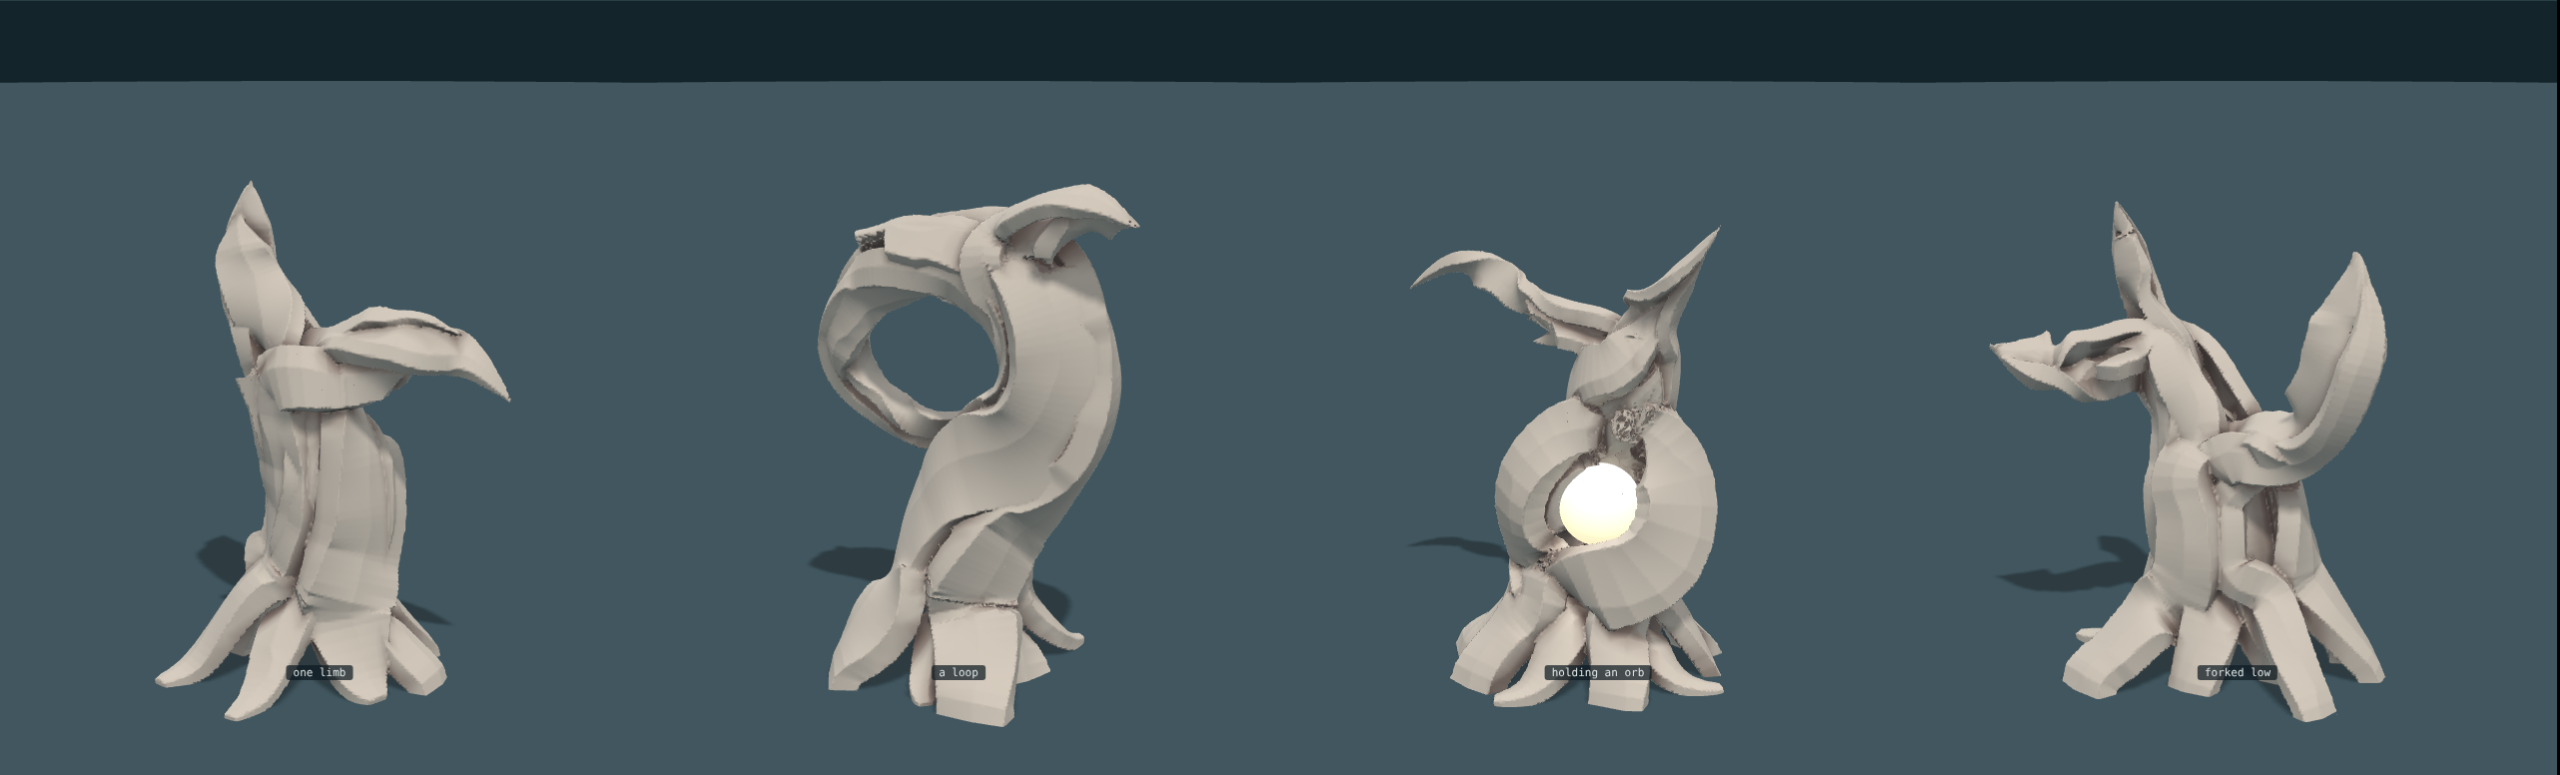
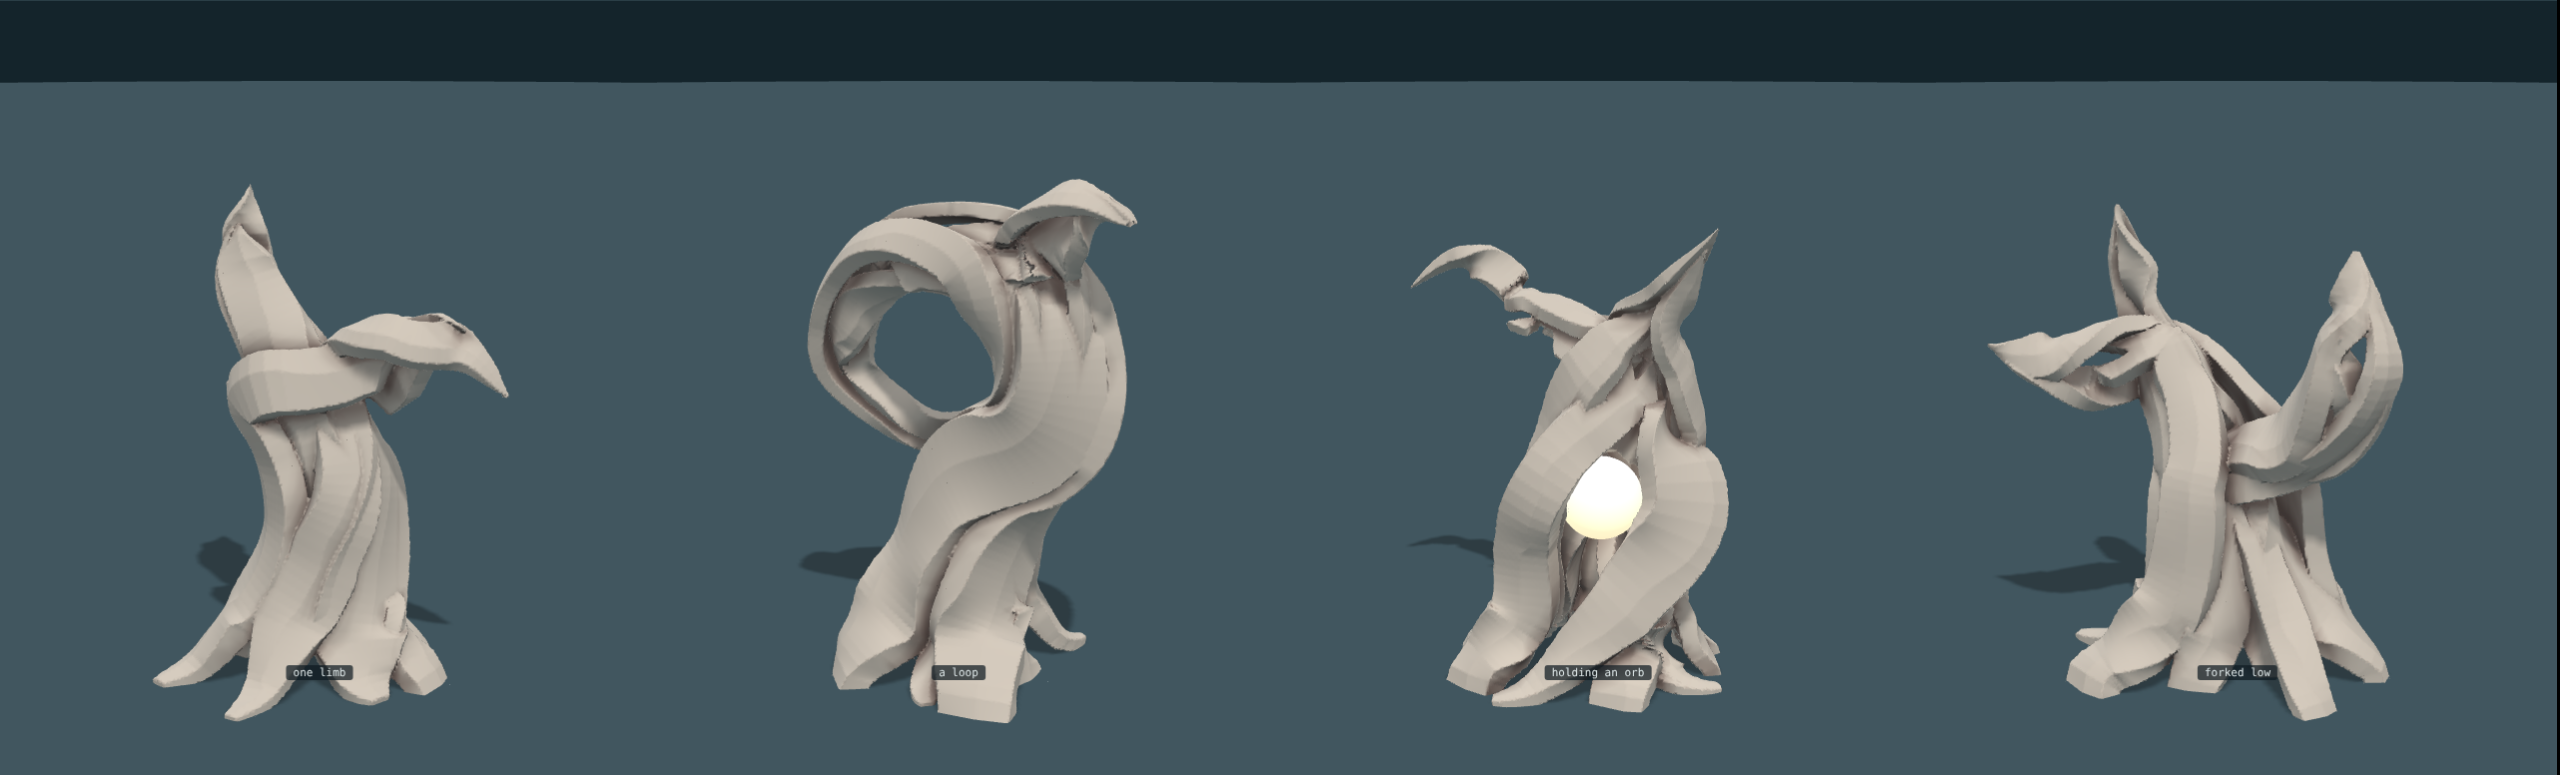
Trees: tension. Strands anchored at their root ends only; the bundle, not each strand, kept to its line
Claude-Session: https://claude.ai/code/session_0192rgp75jGkttZXf7hEakip

diff --git a/trees.js b/trees.js
@@ -2,8 +2,10 @@
 // begins as a root, goes up the trunk with the rest, leaves with some of them along a limb
 // or carries on to the top, and ends in a point. Where strands share a way they are a bundle; a fork is the
 // bundle parting. The trunk's and limbs' lines are given; where each strand lies is not. That is settled:
-// every strand is pulled taut, resists bending, keeps to its bundle, and gives way to every other strand,
-// to the ground, and to an orb if the tree holds one (see strands.js for that by itself).
+// every strand is anchored at the far end of its root and nowhere else, is pulled taut, resists bending, and
+// gives way to every other strand, to the ground, and to an orb if the tree holds one. Only the bundle as
+// a whole is kept on its line. So whatever pushes a strand aside is felt all the way along it: there is
+// tension, from the root's anchor to the strand's end.
 // Nothing here has a surface. grow() returns where the strands go, how thick they are and which way each
 // faces outward. No dependencies. Works as a plain <script> (globalThis.Trees) and in Node.
 (function (root) {
@@ -25,7 +27,7 @@
   function frames(P) { let N = null; return P.map((p, i) => { const T = unit([0, 1, 2].map((k) => P[Math.min(P.length - 1, i + 1)][k] - P[Math.max(0, i - 1)][k])); N = unit((N || [1, 0, 0.2]).map((v, k, A) => v - T[k] * dot(A, T))); return [T, N, cross(T, N)]; }); }
 
   function grow(recipe) {
-    const P = Object.assign({ strands: 8, fill: 0.75, uneven: 0.5, twist: 0.5, taut: 0.3, stiff: 0.05, hug: 0.02, roots: 0.6, giving: 0.75, passes: 700, ds: 0.025, seed: 1, trunk: [[0, 0.14, 0, 0.27], [0, 1.6, 0, 0.1]], limbs: [], orb: null }, recipe);
+    const P = Object.assign({ strands: 8, fill: 0.75, uneven: 0.5, twist: 0.5, taut: 0.3, stiff: 0.05, hug: 0.15, bind: 0.001, roots: 0.6, giving: 0.75, passes: 1500, ds: 0.035, seed: 1, trunk: [[0, 0.14, 0, 0.27], [0, 1.6, 0, 0.1]], limbs: [], orb: null }, recipe);
     const r = rng(P.seed), n = P.strands, ds = P.ds, trunk = line(P.trunk, ds), nT = trunk.length, R0 = trunk[0][3], rho0 = R0 * Math.sqrt(P.fill / n), turn = (i) => P.twist * TAU * i / nT;
     // every strand has a place in the bundle's section, and a girth of its own
     const S = Array.from({ length: n }, (_, j) => { const d = Math.sqrt((j + 0.5) / n), a = j * GA + 0.5 * (r() - 0.5); return { a: d * Math.cos(a), b: d * Math.sin(a), fat: 1 + P.uneven * (r() - 0.5), limb: -1, give: r() < P.giving ? 1 : 0.25 * r() }; });
@@ -51,7 +53,7 @@
       for (let i = 0; i <= end; i++) {
         const [u, v, m] = place(s, i), onLimb = fi >= 0 && i > fi, Rg = (onLimb ? path[i][3] : path[i][3] * Math.sqrt(m / n)) * 0.8, c = Math.cos(turn(i)), sn = Math.sin(turn(i)), a = u * c - v * sn, b = u * sn + v * c, [, Nn, Bn] = fr[i];
         const tip = s.snapped ? 1 : Math.max(0.12, Math.pow(Math.min(1, (end - i) * ds / fine), 0.7));   // or it fines down to a point
-        X.push([0, 1, 2].map((k) => path[i][k] + (Nn[k] * a + Bn[k] * b) * Rg)); goal.push(path[i].slice(0, 3)); hold.push(P.hug);
+        X.push([0, 1, 2].map((k) => path[i][k] + (Nn[k] * a + Bn[k] * b) * Rg)); goal.push(path[i].slice(0, 3)); hold.push(0);
         rho.push(rho0 * s.fat * tip * (onLimb ? limbs[s.limb].scale * (0.7 + 0.3 * path[i][3] / path[fi + 1][3]) : path[i][3] / R0));
       }
       // its root: the strand itself coming down from the foot of the trunk the way it faces there, heavy, and
@@ -60,7 +62,8 @@
       for (let m = 1; m <= Kr; m++) { const g = m / Kr, t = bend * g * g, dir = [away[0] * Math.cos(t) - away[2] * Math.sin(t), 0, away[0] * Math.sin(t) + away[2] * Math.cos(t)], rad = rho[0] * (dives ? 0.75 + 0.25 * (1 - g) : 0.25 + 0.75 * Math.pow(1 - g, 0.8));
         q = [q[0] + dir[0] * ds, p0[1] + (rad * 0.6 - p0[1]) * sstep(0, 0.8, g) - (dives ? 0.35 * sstep(0.6, 1, g) : 0), q[2] + dir[2] * ds]; rx.push(q); rr.push(rad); rg.push(q); }
       s.root = Kr; s.K = Kr + X.length; const all = rx.reverse().concat(X), goals = rg.reverse().concat(goal);
-      s.X = Float64Array.from(all.flat()); s.goal = Float64Array.from(goals.flat()); s.rho = Float64Array.from(rr.reverse().concat(rho)); s.hold = Float64Array.from(new Array(Kr).fill(0.12).concat(hold)); s.bend = P.stiff * Math.min(1.6, s.fat * s.fat);
+      s.X = Float64Array.from(all.flat()); s.goal = Float64Array.from(goals.flat()); s.rho = Float64Array.from(rr.reverse().concat(rho)); s.hold = Float64Array.from(Array.from({ length: Kr }, (_, k) => (k < Kr * 0.45 ? 0.2 : 0)).concat(hold));   // anchored at the far end of its root, and nowhere else
+      s.limbAt = fi; s.bend = P.stiff * Math.min(1.6, s.fat * s.fat);
     }
     // an orb held in the trunk: a ball, with room round it for the strands that are willing to give it
     let orb = null;
@@ -73,12 +76,20 @@
         for (let a = -1; a <= 1; a++) for (let b = -1; b <= 1; b++) for (let e = -1; e <= 1; e++) { const q = g.get((cx + a + 512) * 1048576 + (cy + b + 512) * 1024 + cz + e + 512); if (!q) continue;
           for (let t = 0; t < q.length; t += 2) { const j = q[t]; if (j <= i) continue; const l = q[t + 1], o = S[j].X, dx = x - o[l * 3], dy = y - o[l * 3 + 1], dz = z - o[l * 3 + 2], d = H(dx, dy, dz), want = s.rho[k] + S[j].rho[l]; if (d < want) fn(i, k, j, l, dx, dy, dz, d || 1e-9, want); } } } });
     };
+    // which strands pass each step of the trunk and of each limb together
+    const stations = new Map();
+    S.forEach((s) => { for (let k = s.root; k < s.K; k++) { const i = k - s.root, key = (s.limbAt >= 0 && i > s.limbAt ? 'limb' + s.limb : 'trunk') + ':' + i; let st = stations.get(key); if (!st) { st = { goal: [s.goal[k * 3], s.goal[k * 3 + 1], s.goal[k * 3 + 2]], who: [] }; stations.set(key, st); } st.who.push(s, k); } });
     const M = S.map((s) => new Float64Array(s.K * 3));
     for (let pass = 0; pass < P.passes; pass++) {
       S.forEach((s, i) => { const X = s.X, m = M[i], K = s.K; m.fill(0);   // taut, stiff, and kept to its bundle's line
         for (let k = 0; k < K; k++) for (let q = 0; q < 3; q++) { const p = X[k * 3 + q]; let v = s.hold[k] * (s.goal[k * 3 + q] - p);
           if (k > 1 && k < K - 2) { const a = X[(k - 2) * 3 + q], b = X[(k - 1) * 3 + q], d = X[(k + 1) * 3 + q], e = X[(k + 2) * 3 + q]; v += P.taut * ((b + d) / 2 - p) - s.bend * (a - 4 * b + 6 * p - 4 * d + e); } m[k * 3 + q] = v; }
         for (let q = 0; q < K * 3; q++) X[q] += m[q]; });
+      // the bundle as a whole is kept on its line: all the strands at a step are moved together, so the line holds
+      // the tree's gesture without pulling any one strand back to where it began
+      for (const st of stations.values()) { let cx = 0, cy = 0, cz = 0, w = 0; for (let t = 0; t < st.who.length; t += 2) { const o = st.who[t], k = st.who[t + 1], m = o.rho[k] ** 2; cx += o.X[k * 3] * m; cy += o.X[k * 3 + 1] * m; cz += o.X[k * 3 + 2] * m; w += m; }
+        const dx = P.hug * (st.goal[0] - cx / w), dy = P.hug * (st.goal[1] - cy / w), dz = P.hug * (st.goal[2] - cz / w); for (let t = 0; t < st.who.length; t += 2) { const o = st.who[t], k = st.who[t + 1], b = k >= o.K - 5 ? 0.04 : P.bind;   // each is bound to the bundle's middle, very lightly; its free end more, or it would wander off
+          o.X[k * 3] += dx + b * (cx / w - o.X[k * 3]); o.X[k * 3 + 1] += dy + b * (cy / w - o.X[k * 3 + 1]); o.X[k * 3 + 2] += dz + b * (cz / w - o.X[k * 3 + 2]); } }
       M.forEach((m) => m.fill(0));   // they give way to each other, the thinner one more
       each((i, k, j, l, dx, dy, dz, d, want) => { const f = 0.5 * (want - d) / d, wi = S[j].rho[l] / want, wj = S[i].rho[k] / want; M[i][k * 3] += dx * f * wi; M[i][k * 3 + 1] += dy * f * wi; M[i][k * 3 + 2] += dz * f * wi; M[j][l * 3] -= dx * f * wj; M[j][l * 3 + 1] -= dy * f * wj; M[j][l * 3 + 2] -= dz * f * wj; });
       S.forEach((s, i) => { for (let q = 0; q < s.K * 3; q++) s.X[q] += M[i][q]; });

diff --git a/sketch/page7.js b/sketch/page7.js
@@ -73,10 +73,10 @@
   }
   // the same four trees. bare: bands only, so the body can be judged by itself.
   const bare = true, S = [
-    ['one limb', tree({ bare, seed: 1, trunk: [[0, 0.34, 0, 0.27], [0.08, 0.7, 0.02, 0.25], [-0.1, 1.1, 0.05, 0.22], [-0.32, 1.45, 0, 0.18], [-0.3, 1.8, -0.05, 0.14]], limbs: [{ at: 0.5, share: 0.38, path: [[0.35, 1.25, 0.15], [0.62, 1.3, 0.2], [0.8, 1.1, 0.15]] }] })],
-    ['a loop', tree({ bare, seed: 2, twist: 0.9, trunk: [[0, 0.34, 0, 0.28], [0.1, 0.7, 0, 0.26], [0.42, 1.05, 0.08, 0.23], [0.3, 1.5, 0.16, 0.2], [-0.26, 1.52, 0.08, 0.18], [-0.54, 1.08, -0.08, 0.16], [-0.2, 0.82, -0.22, 0.14], [0.2, 1.0, -0.34, 0.11]], limbs: [{ at: 0.42, share: 0.25, path: [[0.6, 1.8, 0.3], [0.82, 1.72, 0.36]] }] })],
-    ['holding an orb', tree({ bare, seed: 3, strands: 10, trunk: [[0, 0.3, 0, 0.3], [0, 0.6, 0, 0.28], [0.1, 1.0, 0, 0.23], [0.3, 1.4, 0.1, 0.18], [0.55, 1.7, 0.2, 0.13]], limbs: [{ at: 0.6, share: 0.3, path: [[-0.3, 1.3, -0.1], [-0.6, 1.5, -0.1], [-0.8, 1.35, 0]] }], orb: { at: 0.22, r: 0.15, room: 0.6, off: 0.45 } })],
-    ['forked low', tree({ bare, seed: 4, strands: 10, twist: 0.3, trunk: [[0, 0.34, 0, 0.3], [-0.05, 0.6, 0, 0.28], [-0.2, 0.98, -0.05, 0.22], [-0.45, 1.35, -0.1, 0.17], [-0.5, 1.72, 0, 0.13]], limbs: [{ at: 0.3, share: 0.4, path: [[0.35, 0.9, 0.1], [0.55, 1.25, 0.2], [0.5, 1.6, 0.1]] }, { at: 0.62, share: 0.25, path: [[-0.6, 1.1, 0.25], [-0.85, 1.2, 0.35]] }] })],
+    ['one limb', tree({ bare, seed: 1, trunk: [[0, 0.22, 0, 0.27], [0.08, 0.7, 0.02, 0.25], [-0.1, 1.1, 0.05, 0.22], [-0.32, 1.45, 0, 0.18], [-0.3, 1.8, -0.05, 0.14]], limbs: [{ at: 0.5, share: 0.38, path: [[0.35, 1.25, 0.15], [0.62, 1.3, 0.2], [0.8, 1.1, 0.15]] }] })],
+    ['a loop', tree({ bare, seed: 2, twist: 0.9, trunk: [[0, 0.22, 0, 0.28], [0.1, 0.7, 0, 0.26], [0.42, 1.05, 0.08, 0.23], [0.3, 1.5, 0.16, 0.2], [-0.26, 1.52, 0.08, 0.18], [-0.54, 1.08, -0.08, 0.16], [-0.2, 0.82, -0.22, 0.14], [0.2, 1.0, -0.34, 0.11]], limbs: [{ at: 0.42, share: 0.25, path: [[0.6, 1.8, 0.3], [0.82, 1.72, 0.36]] }] })],
+    ['holding an orb', tree({ bare, seed: 3, strands: 10, trunk: [[0, 0.22, 0, 0.3], [0, 0.6, 0, 0.28], [0.1, 1.0, 0, 0.23], [0.3, 1.4, 0.1, 0.18], [0.55, 1.7, 0.2, 0.13]], limbs: [{ at: 0.6, share: 0.3, path: [[-0.3, 1.3, -0.1], [-0.6, 1.5, -0.1], [-0.8, 1.35, 0]] }], orb: { at: 0.27, r: 0.15, room: 0.6, off: 0.45 } })],
+    ['forked low', tree({ bare, seed: 4, strands: 10, twist: 0.3, trunk: [[0, 0.22, 0, 0.3], [-0.05, 0.6, 0, 0.28], [-0.2, 0.98, -0.05, 0.22], [-0.45, 1.35, -0.1, 0.17], [-0.5, 1.72, 0, 0.13]], limbs: [{ at: 0.3, share: 0.4, path: [[0.35, 0.9, 0.1], [0.55, 1.25, 0.2], [0.5, 1.6, 0.1]] }, { at: 0.62, share: 0.25, path: [[-0.6, 1.1, 0.25], [-0.85, 1.2, 0.35]] }] })],
   ];
   window.Fantastic = { names: S.map((s) => s[0]), orbs: S.map((s) => s[1].orb), measures: S.map((s) => s[1].measure), counts: S.map((s) => s[1].count), build: (i) => mesh(S[i][1], S[i][0], 0.0095, 2.05), mesh, kit: Fantastic.kit };
 })();

diff --git a/LOG.md b/LOG.md
@@ -1188,3 +1188,47 @@ What is wrong: they stand on legs. Raising the foot and sending fat roots
 down from it left open air between the roots, so the trunk reads as a body
 on stilts, and with the heavy forked limbs above, as animals. Blunt ends
 are cut too cleanly. Third guess in a row at the body; not yet judged.
+
+**A sock filled with sand.** What bothers, said straight out about the orb
+tree: the branch abruptly makes a spherical container and abruptly ends it
+"without consequences, which means there's no tension in the roots, it's
+just a sock filled with sand." The legged body above is kept as
+`sketch/page7-sock.png`.
+
+The cause was in the settling. Every point of every strand was pulled back
+to its own place on the trunk's line, and that pull was far stronger than
+the strand's tautness: a push died out within about 0.07, under three
+steps of a strand. And root points were pinned along their whole length, so
+nothing reached them. The wood conformed and had no tension in it.
+
+Changed in `trees.js`:
+
+- A strand is anchored at the far end of its root and nowhere else.
+- The bundle as a whole is kept on the trunk's line: at each step all its
+  strands are moved together. No strand is pulled back to where it began.
+- Each strand is bound to its bundle's middle only very lightly (its free
+  end more, or it wanders off: one did, to a whole tree's width away).
+
+Measured on the orb tree, girth of the trunk at heights 0.3, 0.45, 0.6,
+0.75, 0.9, 1.05 (the orb's middle is at about 0.55, its room 0.24 in
+radius): without the orb 0.38, 0.37, 0.34, 0.33, 0.29, 0.27; with it 0.50,
+0.51, 0.51, 0.50, 0.46, 0.31. The swelling now runs from the ground to
+about 0.4 above the orb, where before it began and ended at the room.
+Overlaps also fell: no touching pair overlaps by more than 15% now, where
+102 did.
+
+`sketch/page7.png` (all four, bare), `sketch/page7-orb-tree-round.png`
+(the orb tree from three sides and cut in half).
+
+What it looks like: strands run in long lines from the ground past the orb
+to the top, and part round it like two curtains; the orb is no longer in a
+ball of wood. The roots under it are spread and the foot is wide.
+
+What is wrong now: it is a tent. The swelling is so long that the orb tree
+is one cone from ground to shoulder, and the roots have merged into a
+skirt; the other three trees have gone the same way at the foot. One
+strand on the orb tree is squeezed thin and kinked where it leaves for the
+limb. The loop's top has a ragged tear.
+
+Also found: a stiffness setting above about 0.055 makes the settling blow
+up. Left at 0.05.
